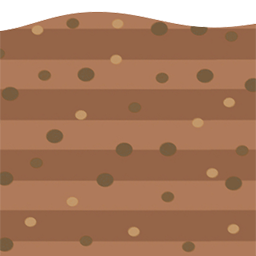
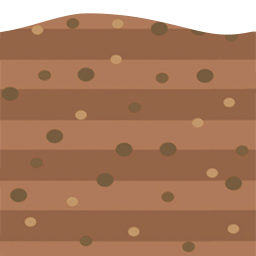
Background adjustments, plot repeating texture

diff --git a/frontend/wellness-garden/src/components/views/GardenView/GardenView.tsx b/frontend/wellness-garden/src/components/views/GardenView/GardenView.tsx
@@ -36,16 +36,16 @@ const GardenView = () => {
 
   return (
 		<div className="view garden-view">
-			<div className='garden-view-nav-buttons'>
-				<SideNavButtons buttons={navButtons}></SideNavButtons>
-			</div>
 			<div>
 				<div className="garden-view-bg">
-					<img className="bg-ground" src="/mainbg_ground1.png" alt="Wellness Garden ground" />
+					<div className="bg-ground"></div>
 				</div>
 				<div className='garden-view-field'>
 					<Field activities={activities}></Field>
 				</div>
+			</div>
+			<div className='garden-view-nav-buttons'>
+				<SideNavButtons buttons={navButtons}></SideNavButtons>
 			</div>
 		</div>
   )

diff --git a/frontend/wellness-garden/src/static/css/index.css b/frontend/wellness-garden/src/static/css/index.css
@@ -46,13 +46,22 @@ button:focus-visible {
   outline: 4px auto -webkit-focus-ring-color;
 }
 
+.bg-clouds {
+  background-image: url("/mainbg_clouds_cropped.png");
+  background-size: contain;
+  background-repeat: repeat-x;
+}
+
+.bg-ground {
+  background-image: url("/mainbg_ground_cropped.png");
+  background-position: 30% 0%;
+  background-repeat: repeat-x;
+}
+
 @media (prefers-color-scheme: light) {
   :root {
     color: #213547;
     /* background-color: #ffffff; */
-  }
-  a:hover {
-    color: #747bff;
   }
   button {
     background-color: #f9f9f9;

diff --git a/frontend/wellness-garden/src/components/views/MainView/MainView.tsx b/frontend/wellness-garden/src/components/views/MainView/MainView.tsx
@@ -17,8 +17,8 @@ const MainView = () => {
   return (
     <div className="view main-view">
       <div className="main-view-bg">
-        <img className="bg-clouds" src="/mainbg_clouds.png" alt="Wellness Garden clouds" />
-        <img className="bg-ground" src="/mainbg_ground1.png" alt="Wellness Garden ground" />
+        <div className="bg-clouds"></div>
+        <div className="bg-ground"></div>
       </div>
       <div className="main-view-content">
         <h1>Wellness Garden</h1>

diff --git a/frontend/wellness-garden/src/components/views/MainView/MainView.css b/frontend/wellness-garden/src/components/views/MainView/MainView.css
@@ -22,16 +22,18 @@
 
 .main-view-bg .bg-clouds {
     position: absolute;
-    top: calc(100vh - 670px - 19vw);
+    width: 100vw;
+    height: 50vh;
+    top: 0;
     left: 0;
-    max-width: 100vw;
 }
 
 .main-view-bg .bg-ground {
     position: absolute;
-    bottom: -15vw;
+    width: 100vw;
+    height: 50vh;
+    top: 50vh;
     left: 0;
-    max-width: 100vw;
 }
 
 .main-view-content {

diff --git a/frontend/wellness-garden/src/components/views/GardenView/GardenView.css b/frontend/wellness-garden/src/components/views/GardenView/GardenView.css
@@ -20,18 +20,12 @@
     z-index: 0;
 }
 
-.garden-view-bg .bg-clouds {
-    position: absolute;
-    top: calc(100vh - 670px - 30vw);
-    left: 0;
-    max-width: 100vw;
-}
-
 .garden-view-bg .bg-ground {
     position: absolute;
-    bottom: 0;
+    width: 100vw;
+    height: 80vh;
+    top: 20vh;
     left: 0;
-    max-width: 100vw;
 }
 
 .garden-view-field {
